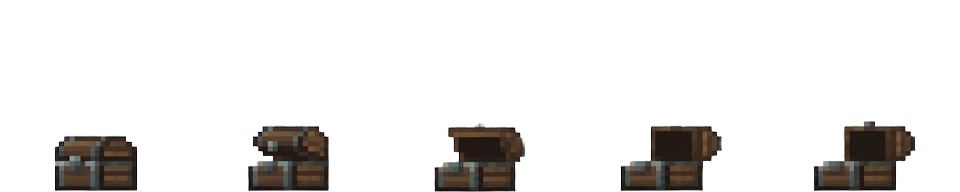
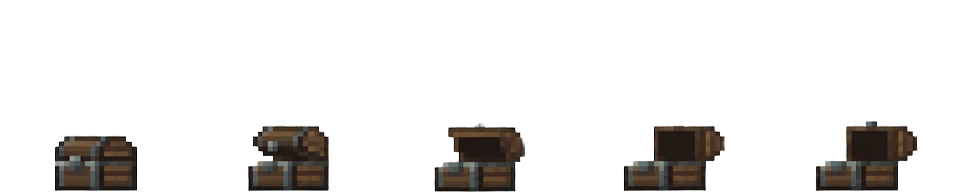
상자 애니메이션 위치 고정 및 크기 확대

diff --git a/game/chests.py b/game/chests.py
@@ -11,7 +11,7 @@ from game.items import (BAG_SIZE, ITEMS, LEATHER_ARMOR, POTION, RING_IDS, SWORD,
 from game.loot_ui import CHEST_SLOT, CLOSE_BUTTON, bag_slot_at, draw_loot
 
 FRAME_SIZE = 192
-DRAW_SIZE = 44
+DRAW_SIZE = 56
 FRAME_COUNT = 5
 OPEN_TIME = .4
 
